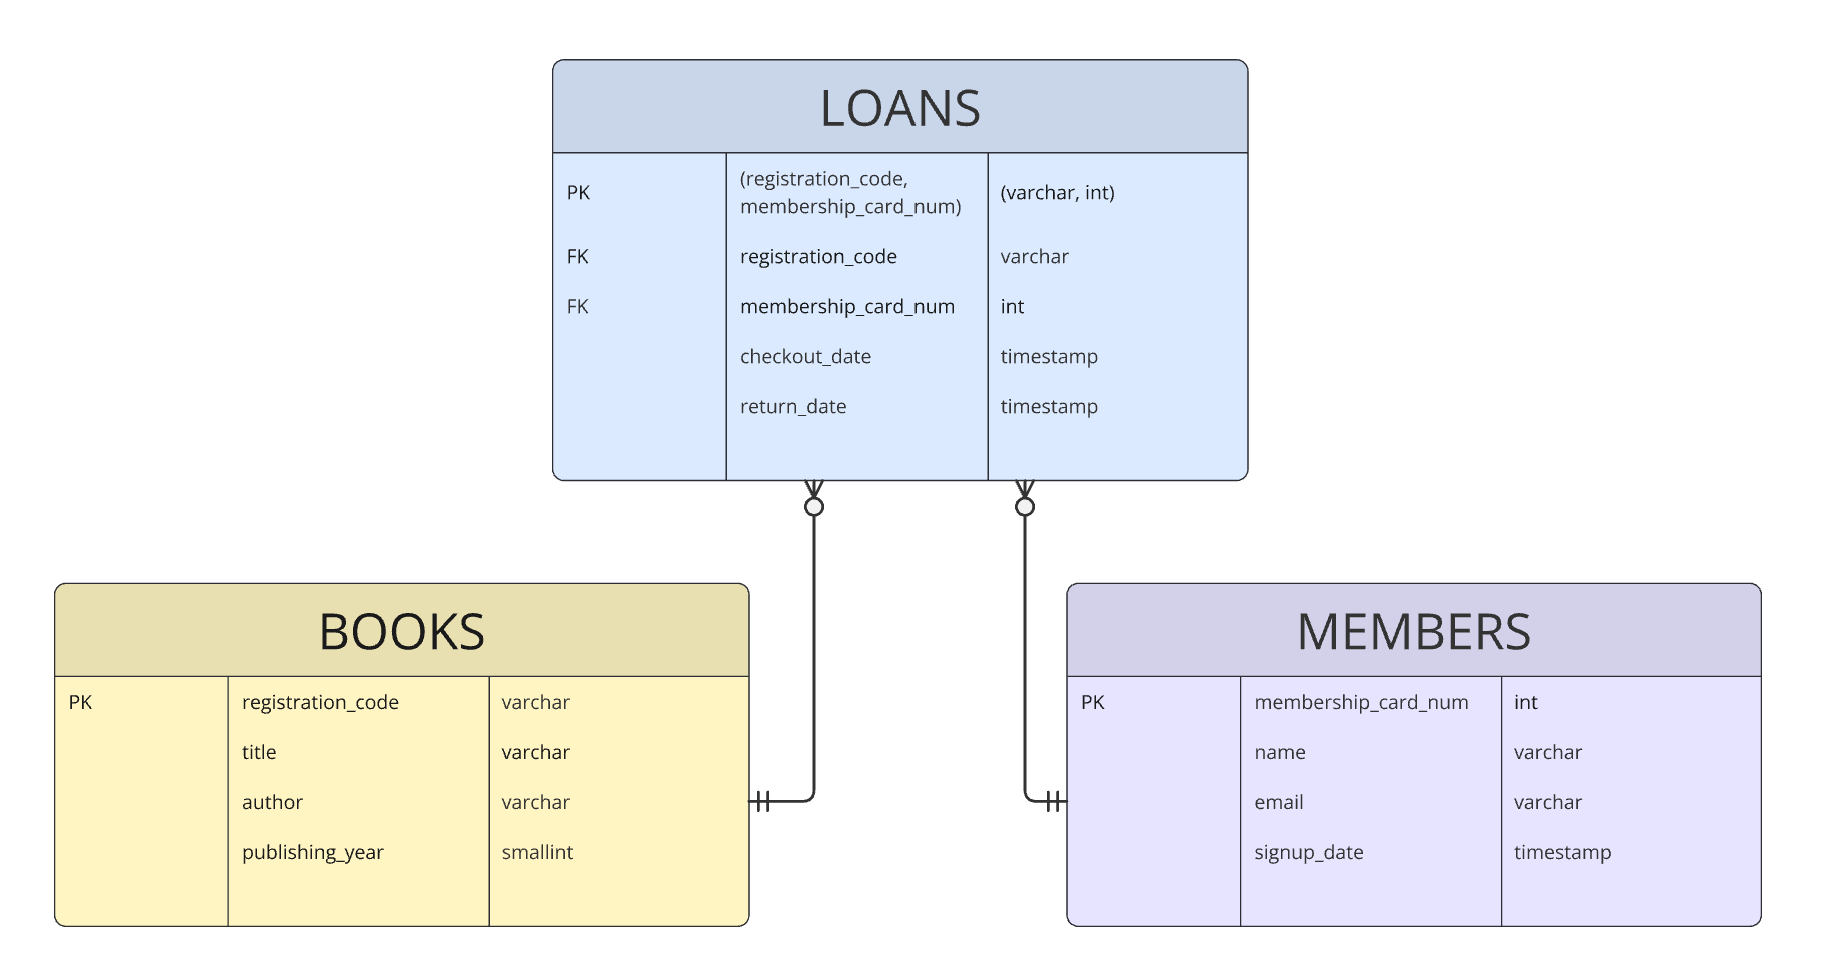
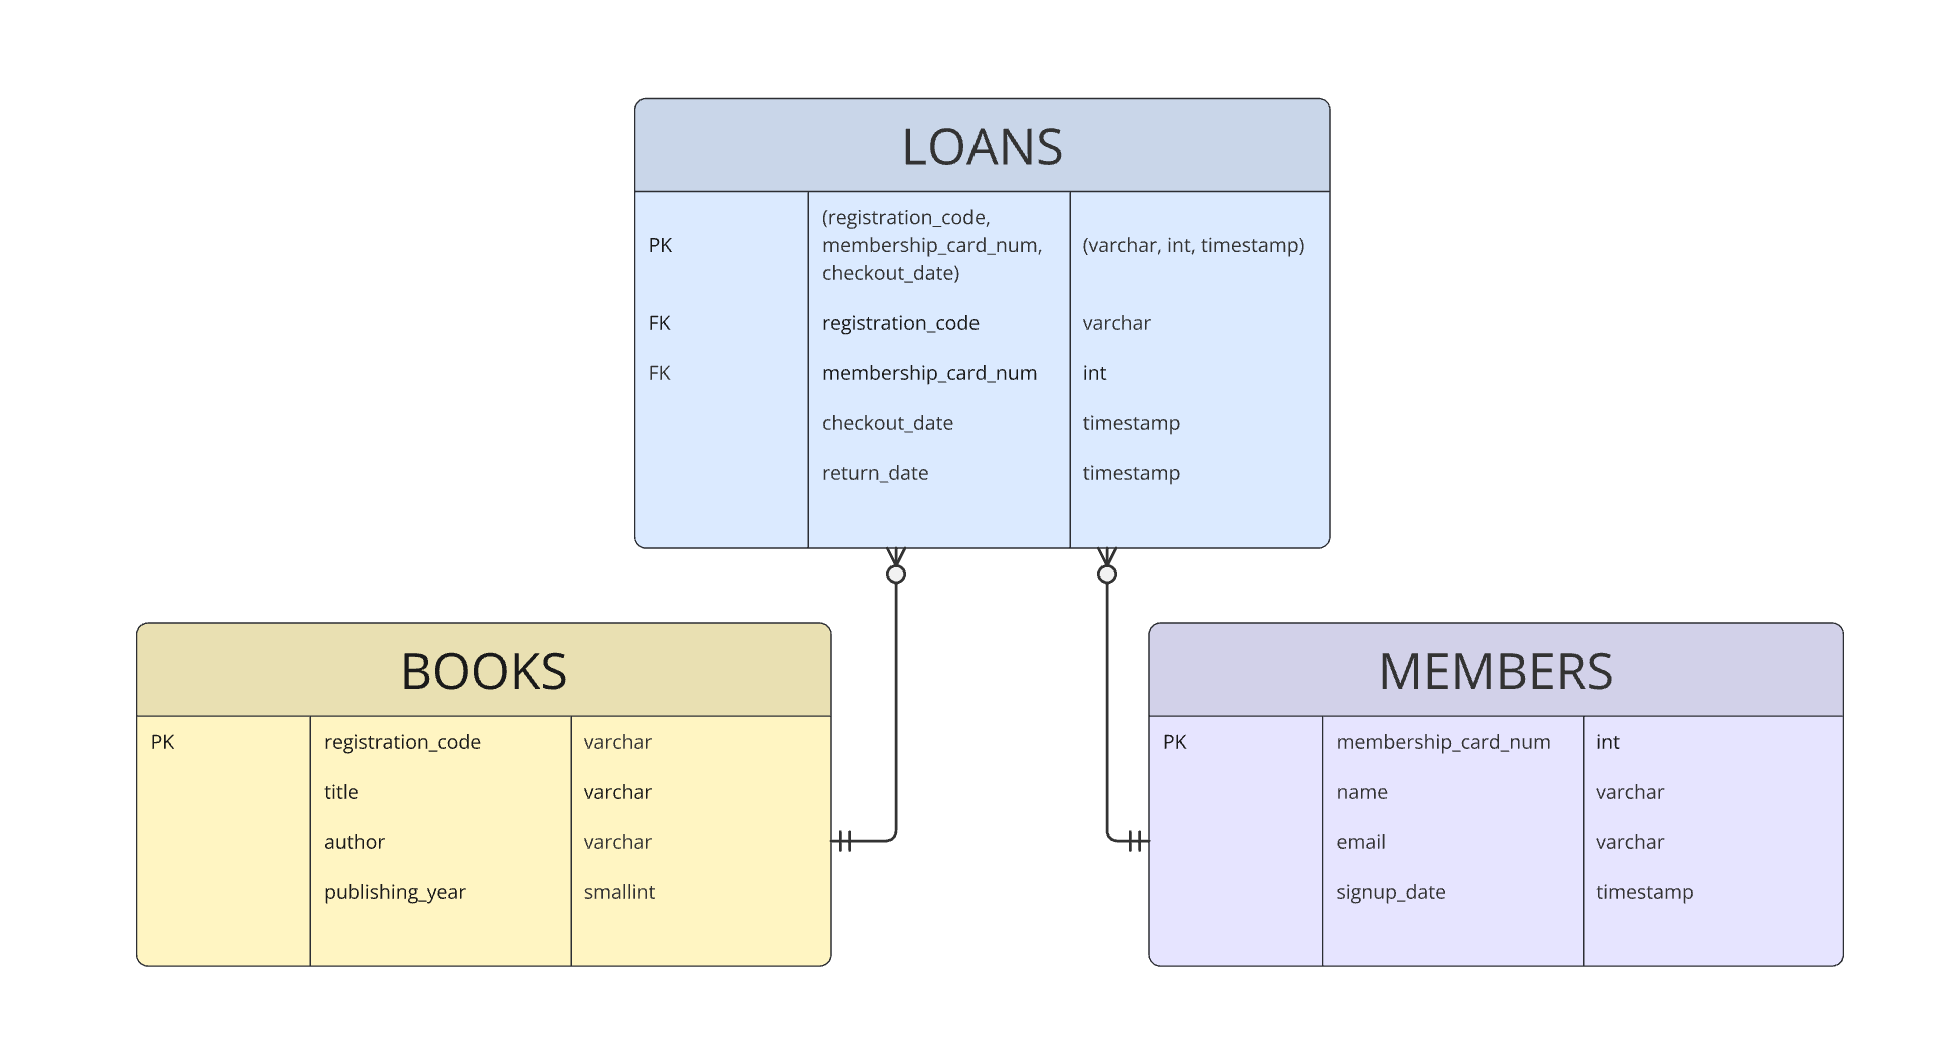
week2 wednesday exercises, erd update

Changed region(s): [[0.0312, 0.0613, 0.9688, 0.9509], [0.4062, 0.3067, 0.5938, 0.4601], [0.125, 0.7669, 0.25, 0.8896]]

diff --git a/assignments/week2/3wednesday/[IN-CLASS]jdbc-crud/JDBCDemoFirst.java b/assignments/week2/3wednesday/[IN-CLASS]jdbc-crud/JDBCDemoFirst.java
@@ -1,0 +1,43 @@
+package com.rev.jdbc;
+
+import java.sql.*;
+
+public class JDBCDemoFirst {
+
+    public static void main(String[] args) {
+
+        // STEP 1 - Load the Driver (optional)
+        try {
+            Class.forName("org.postgresql.Driver");
+
+            //STEP 2 - Create a connection
+            try (Connection connection =
+                         DriverManager.getConnection(System.getenv("DB_URL"),
+                                 System.getenv("DB_USER"), System.getenv("DB_PWD"))) {
+
+                //STEP 3: Create statement object
+                String query = "SELECT * FROM employees";
+                PreparedStatement statement = connection.prepareStatement(query);
+
+                //STEP 4: Collect results in ResultSet
+                ResultSet resultSet = statement.executeQuery();
+
+                //STEP 5: Iterate over and process resultSet
+                while (resultSet.next()) {
+                    System.out.println(resultSet.getInt("emp_id") + " " +
+                            resultSet.getString(3) + " " +
+                            resultSet.getDouble("salary"));
+                }
+
+                //STEP 6 - close the connection
+                //connection.close();
+
+            } catch (SQLException e) {
+                throw new RuntimeException(e);
+            }
+
+        } catch (ClassNotFoundException e) {
+            throw new RuntimeException(e);
+        }
+    }
+}

diff --git a/assignments/week2/3wednesday/[IN-CLASS]jdbc-crud/JDBCDemoInsert.java b/assignments/week2/3wednesday/[IN-CLASS]jdbc-crud/JDBCDemoInsert.java
@@ -1,0 +1,37 @@
+package com.rev.jdbc;
+
+import java.sql.*;
+
+public class JDBCDemoInsert {
+
+    public static void main(String[] args) {
+
+        try {
+            Class.forName("org.postgresql.Driver");
+
+            try ( Connection connection = DriverManager.getConnection(System.getenv("DB_URL"),
+                    System.getenv("DB_USER"), System.getenv("DB_PWD"));) {
+
+                String query = "INSERT INTO employees(emp_id, first_name, last_name, department, salary) VALUES (?,?,?,?,?)";
+                PreparedStatement statement = connection.prepareStatement(query);
+                statement.setInt(1,6);
+                statement.setString(2, "Seoky");
+                statement.setString(3, "Ducky");
+                statement.setString(4, "Cool Tech Unit");
+                statement.setDouble(5, 1000000.99);
+
+                int rowsAffected = statement.executeUpdate();
+                System.out.println("Success, " + rowsAffected + " rows affected");
+
+
+            } catch (SQLException e) {
+                throw new RuntimeException(e);
+            }
+
+
+        } catch (ClassNotFoundException e) {
+            throw new RuntimeException(e);
+        }
+
+    }
+}

diff --git a/assignments/week2/3wednesday/[IN-CLASS]jdbc-crud/JDBCDemoUpdate.java b/assignments/week2/3wednesday/[IN-CLASS]jdbc-crud/JDBCDemoUpdate.java
@@ -1,0 +1,32 @@
+package com.rev.jdbc;
+
+import java.sql.*;
+
+public class JDBCDemoUpdate {
+
+    public static void main(String[] args) {
+
+        try {
+
+            Class.forName("org.postgresql.Driver");
+
+            try (Connection connection = DriverManager.getConnection(System.getenv("DB_URL"),
+                    System.getenv("DB_USER"), System.getenv("DB_PWD"))) {
+
+                String sql = "UPDATE employees SET salary = ? WHERE first_name = ?";
+                PreparedStatement statement = connection.prepareStatement(sql);
+                statement.setDouble(1, 200000);
+                statement.setString(2, "Bob");
+
+                int rowsAffected = statement.executeUpdate();
+                System.out.println("Success, " + rowsAffected + " rows affected");
+
+            } catch (SQLException e) {
+                throw new RuntimeException(e);
+            }
+
+        } catch (ClassNotFoundException e) {
+            throw new RuntimeException(e);
+        }
+    }
+}

diff --git a/assignments/week2/3wednesday/[IN-CLASS]jdbc-crud/JDBCDemoDelete.java b/assignments/week2/3wednesday/[IN-CLASS]jdbc-crud/JDBCDemoDelete.java
@@ -1,0 +1,34 @@
+package com.rev.jdbc;
+
+import java.sql.Connection;
+import java.sql.DriverManager;
+import java.sql.*;
+
+public class JDBCDemoDelete {
+
+    public static void main(String[] args) {
+
+        try {
+
+            Class.forName("org.postgresql.Driver");
+
+            try (Connection connection = DriverManager.getConnection(System.getenv("DB_URL"),
+                    System.getenv("DB_USER"), System.getenv("DB_PWD"));) {
+
+                String sql = "DELETE FROM employees WHERE emp_id = ?";
+                PreparedStatement statement = connection.prepareStatement(sql);
+                statement.setInt(1, 6);
+
+                int rowsAffected = statement.executeUpdate();
+                System.out.println("Success, " + rowsAffected + " rows affected");
+
+            } catch (SQLException e) {
+                throw new RuntimeException(e);
+            }
+
+        } catch (ClassNotFoundException e) {
+            throw new RuntimeException(e);
+        }
+    }
+
+}

diff --git a/assignments/week2/2tuesday/erd-design-exercise/justification.md b/assignments/week2/2tuesday/erd-design-exercise/justification.md
@@ -1,0 +1,6 @@
+Since each Book contains an unique, and assumably non-null registratin code, we can use that as the 
+primary key of the Book entity. Similarily, each Member has unique and non-null membership card number,
+which we will use as the primary key. We model the relationship between the two through a junction table Loans, 
+which can take one and only one book with a member. We use a junction table because many books can be associated with 
+many members, through taking out additional loans. For the loan entity, we make a composite key, since loans can be 
+associated with the same book and member, with different timestamps, in order to uniquely identify a loan. 

diff --git a/assignments/week2/3wednesday/keys-exercise/errors-log.md b/assignments/week2/3wednesday/keys-exercise/errors-log.md
@@ -1,0 +1,17 @@
+## Orphan test error message 
+Error message received:  
+```
+SQL Error [23503]: ERROR: insert or update on table "loans" violates foreign key constraint "loans_member_id_fkey"
+  Detail: Key (member_id)=(9999) is not present in table "members".
+
+Error position:
+``` 
+
+## Duplicate email check 
+Error message received:  
+```
+SQL Error [23505]: ERROR: duplicate key value violates unique constraint "members_email_key"
+  Detail: Key (email)=(john@email.com) already exists.
+
+Error position:
+```
